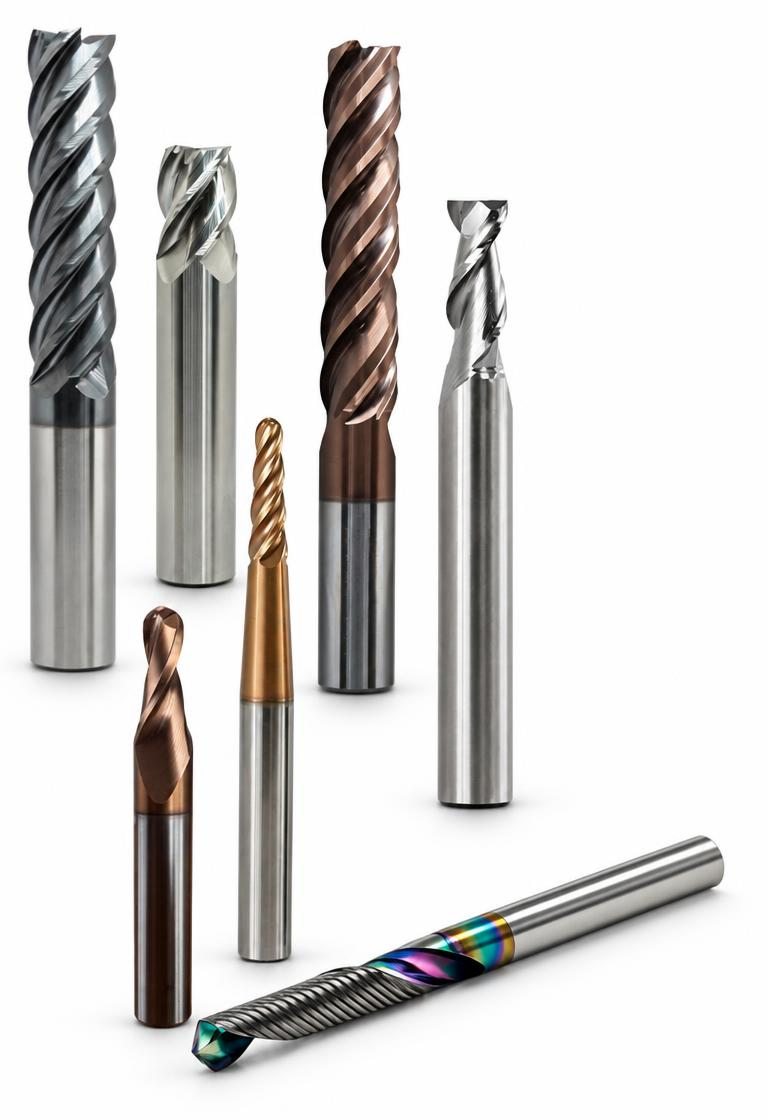
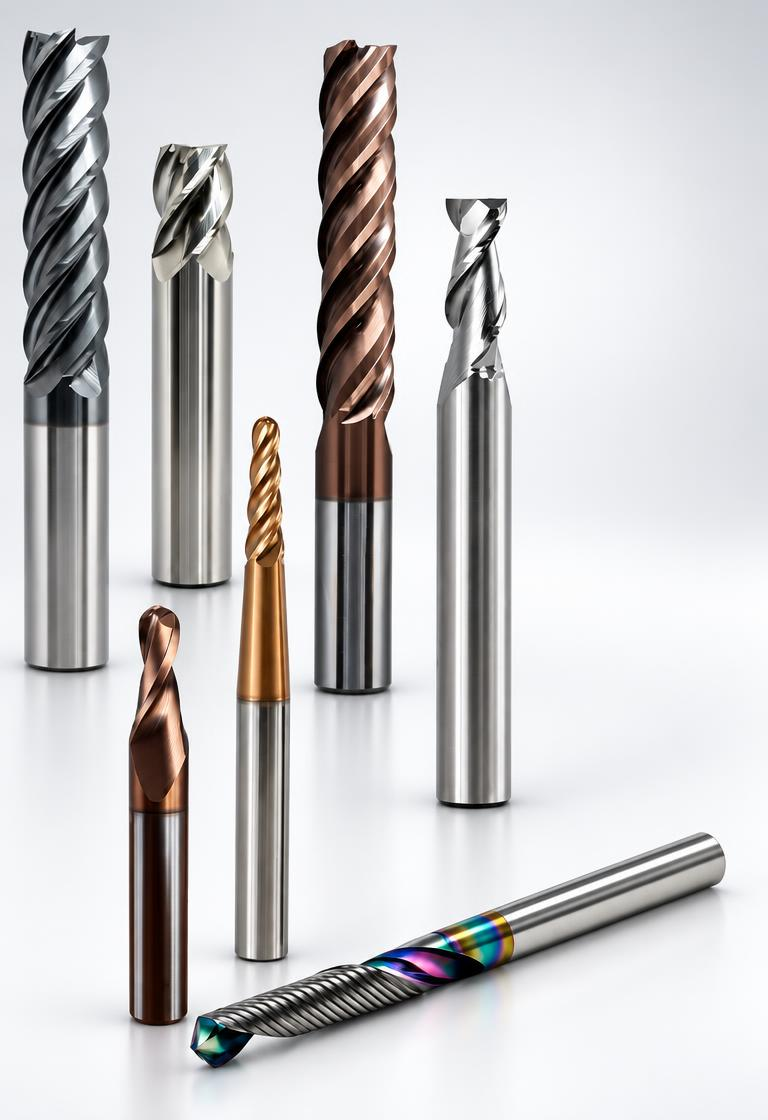
Brand-enhance End Mills photo and reduce left padding

diff --git a/src/pages/Products.module.css b/src/pages/Products.module.css
@@ -437,7 +437,7 @@
 .emptyState h2 { margin-bottom: 24px; }
 .detailGrid { display: grid; grid-template-columns: 1fr 1fr; gap: 40px; }
 .detailImage { min-width: 0; }
-.detailImage > div > button:first-child img { padding: 24px; }
+.detailImage > div > button:first-child img { padding: 24px 24px 24px 4px; }
 .applicationList { padding-left: 20px; margin: 16px 0 24px; color: var(--text-secondary); }
 .specTable { width: 100%; border-collapse: collapse; margin: 20px 0; text-align: left; }
 .specTable caption { text-align: left; font-weight: 700; color: var(--navy); margin-bottom: 12px; }
